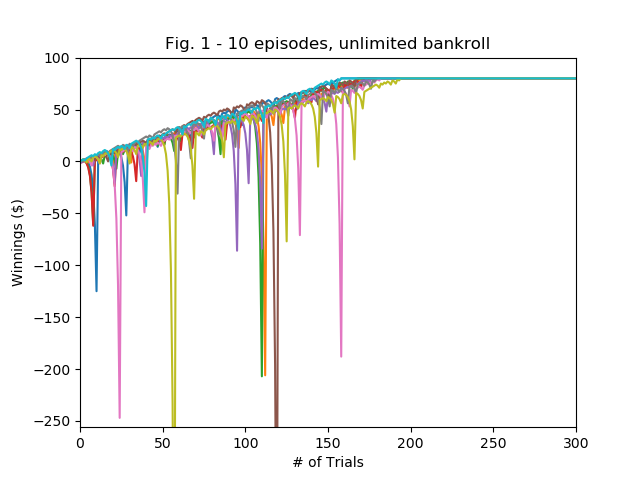
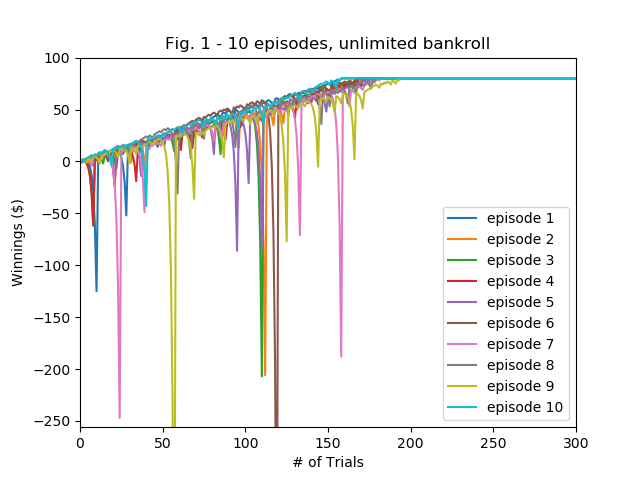
Added legend to fig 1

Changed region(s): [[0.6875, 0.4375, 0.875, 0.875]]

diff --git a/martingale/martingale.py b/martingale/martingale.py
@@ -112,7 +112,8 @@ def run_helper(runs, win_prob, realistic = False):
     if runs == 10:
         for i in range(runs):
             temp = strategy(win_prob)
-            plt.plot(temp)
+            plt.plot(temp, label = 'episode {}'.format(i + 1))
+            plt.legend()
     elif runs == 1000:
         res = np.zeros((1000, 1001))
         for i in range(runs):
